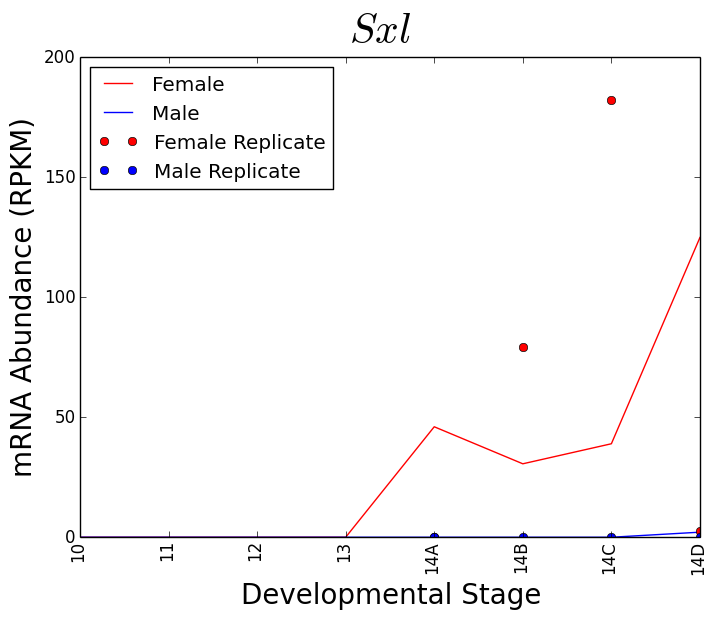
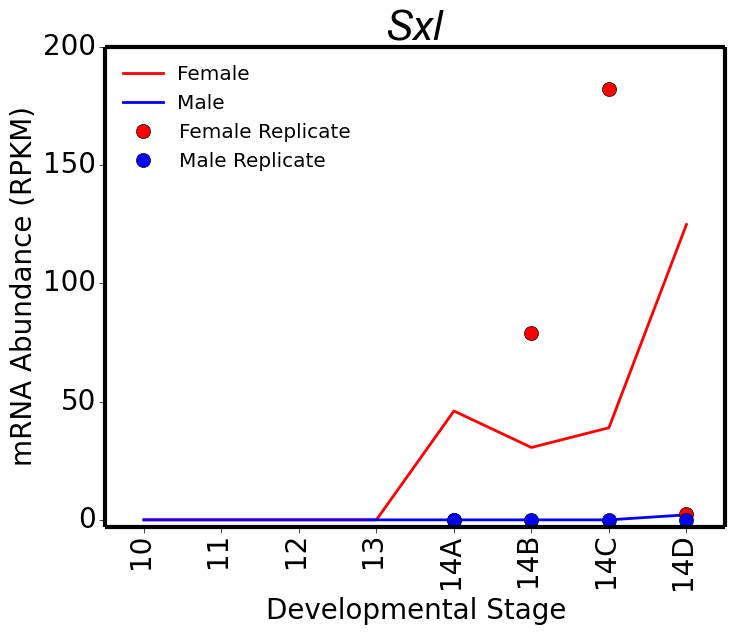
bootcamp stuff

diff --git a/day4-homework.py/day4-homework-timecourse.py b/day4-homework.py/day4-homework-timecourse.py
@@ -28,7 +28,6 @@ fpkms2 = []
 fpkms3 = []
 fpkms4 = []
 
-
 for sample in df_samples1["sample"][soi1]:
     # Build a complete path
     fname = os.path.join( sys.argv[2], sample, "t_data.ctab" )
@@ -58,14 +57,20 @@ for sample in df_samples4["sample"][soi4]:
     fpkms4.append( df[roi4]["FPKM"].values )   
     
 plt.figure()
-plt.plot( fpkms1, color = 'red', label = 'Female')
-plt.plot( fpkms2, color = 'blue', label = 'Male' )
-plt.plot( [4,5,6,7], fpkms3, "o", color = 'red', label = 'Female Replicate')
-plt.plot( [4,5,6,7],fpkms4, "o", color = 'blue', label = 'Male Replicate' )
+plt.rc('axes', linewidth=3)
+plt.rc('xtick', labelsize=20)
+plt.rc('ytick', labelsize=20)  
+plt.plot( fpkms1, color = 'red', label = 'Female', linewidth=2)
+plt.plot( fpkms2, color = 'blue', label = 'Male', linewidth=2 )
+plt.plot( [4,5,6,7], fpkms3, "o", color = 'red', label = 'Female Replicate', markersize=10)
+plt.plot( [4,5,6,7],fpkms4, "o", color = 'blue', label = 'Male Replicate', markersize=10 )
 plt.xlabel("Developmental Stage", fontsize = 20)
 plt.ylabel("mRNA Abundance (RPKM)", fontsize = 20)
-plt.suptitle("$\it{Sxl}$", fontsize = 30)
+plt.title("Sxl",size=30,style='italic')
 plt.xticks([0,1,2,3,4,5,6,7],("10", "11", "12", "13", "14A", "14B", "14C", "14D"), rotation = "vertical")
-plt.legend(loc = "best")
+plt.legend(loc = "best", frameon=False, numpoints=1)
+plt.ylim(-3, 200)
+plt.xlim(-0.5, 7.5)
+plt.tick_params(right='off',top='off',direction='out')
 plt.savefig( "day4-homework.png", bbox_inches = "tight")
 plt.close()

diff --git a/day5-lunch/day5-lunch-question-4.py b/day5-lunch/day5-lunch-question-4.py
@@ -8,14 +8,14 @@ import os
 import statsmodels.api as sm
 
 df = pd.read_csv(sys.argv[1], sep="\t")
+df = df.sort_values("t_name")
 fpkm = df["FPKM"]
 
 for arg in sys.argv[2:]:
     df_ad = pd.read_csv(arg, sep='\t', header=None, names = ["name", "size", "covered", "sum", "mean0", "mean"])
+    df_ad = df_ad.sort_values("name")
     ad  = df_ad["mean"]
     model = sm.OLS(ad,fpkm)
     results = model.fit()
     print results.summary()
-    
-# print results
 
